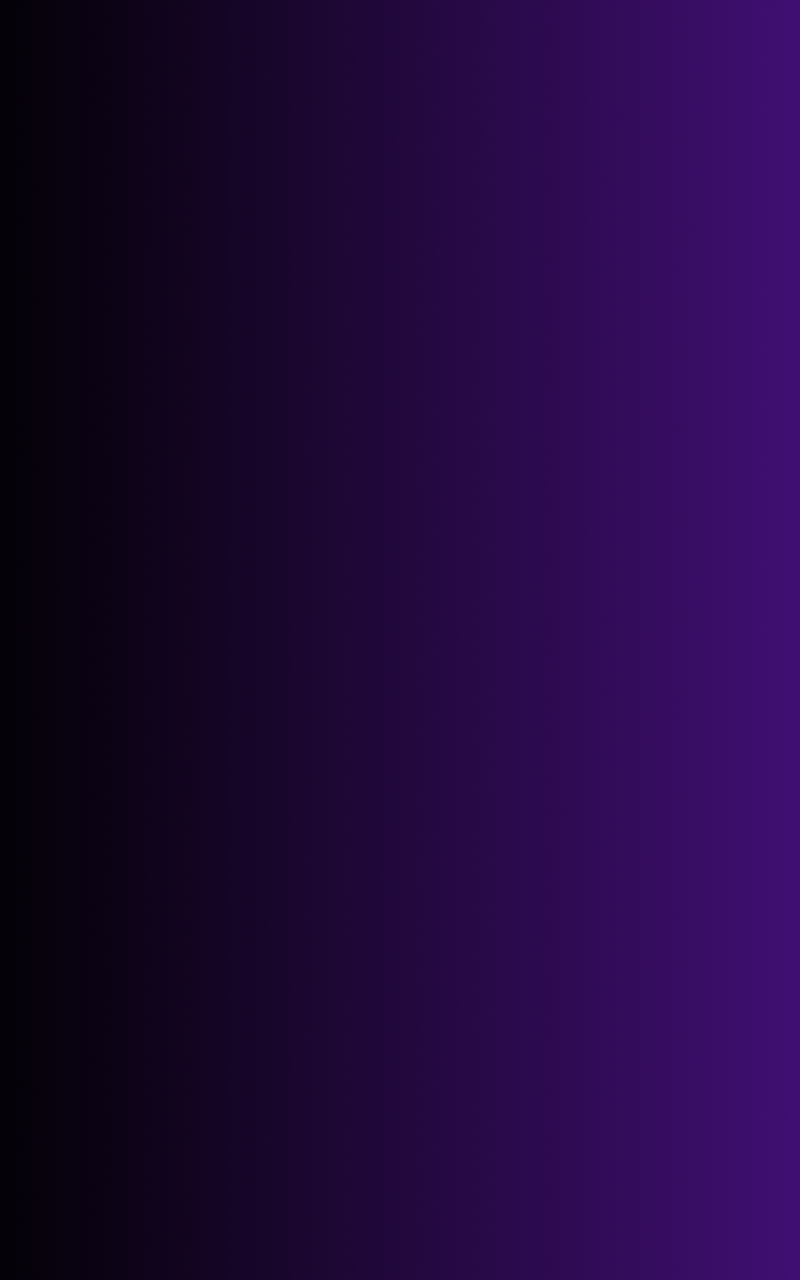
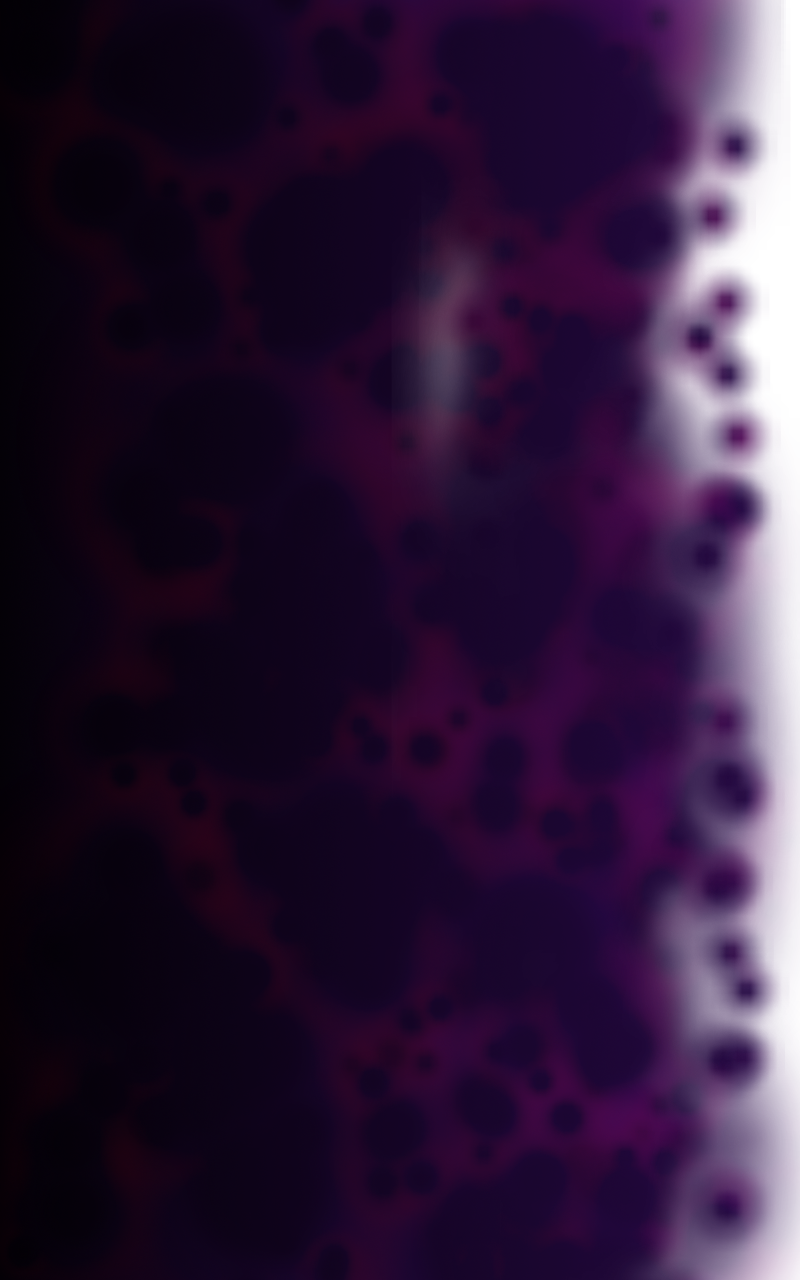
added chaser and an overlay

diff --git a/main.cpp b/main.cpp
@@ -17,6 +17,7 @@
 #include <SFML/Audio.hpp>
 #include <SFML/Graphics.hpp>
 #include <string>
+#include <algorithm>
 
 // Here is a small helper for you ! Have a look.
 #include "ResourcePath.hpp"
@@ -26,6 +27,7 @@
 #include "Tile.h"
 #include "LightOrb.h"
 #include "level.h"
+#include "Chaser.h"
 
 using namespace std;
 
@@ -49,8 +51,14 @@ int main(int, char const**)
     //Declare Player
     sf:: Texture playerTexture;
     playerTexture.loadFromFile(resourcePath() + "player.png");
-    Player player(playerTexture, sf::Vector2f(WIDTH/2, HEIGHT/2), sf::Vector2f(5, 0), 1, true, true);
-    //Chaser chaser();
+    sf::Sprite playerSprite(playerTexture);
+    Player player(playerSprite, sf::Vector2f(WIDTH/2, HEIGHT/2), sf::Vector2f(5, 0), true, true);
+    
+    
+    sf:: Texture chaserTexture;
+    chaserTexture.loadFromFile(resourcePath() + "Chaser.png");
+    sf::Sprite chaserSprite(chaserTexture);
+    Chaser chaser(chaserSprite, sf::Vector2f(-WIDTH, 0), sf::Vector2f(5.4, 0));
 
     // Set the Icon
     sf::Image icon;
@@ -65,8 +73,18 @@ int main(int, char const**)
     if (!texture.loadFromFile(resourcePath() + "background.png")) {
         return EXIT_FAILURE;
     }
+    texture.setSmooth(true);
     sf::Sprite background(texture);
     background.scale(10, 10);
+    
+    //overlay
+    sf::Texture overlayTexture;
+    if (!overlayTexture.loadFromFile(resourcePath() + "overlay.png")) {
+        return EXIT_FAILURE;
+    }
+    overlayTexture.setSmooth(true);
+    sf::Sprite overlay(overlayTexture);
+    overlay.scale(10, 10);
     
     // Load a sprite to display
     sf::Texture lightOrbTexture;
@@ -82,9 +100,6 @@ int main(int, char const**)
     }
     sf::Sprite blockSprite(blockTexture);
 
-    //move the player sprite to the centre of the screen ... ish
-    player.sprite.move(player.position);
-
     // Create a graphical text to display
     sf::Font font;
     if (!font.loadFromFile(resourcePath() + "sansation.ttf")) {
@@ -96,16 +111,17 @@ int main(int, char const**)
     
     vector<GameObject> gameObjects;
     
+    
     Level level(resourcePath() + "levelTest.png", lightOrbSprite, blockSprite);
-    cout << level.tilemap.size();
+    
     
     for (int i = 0; i < level.tilemap.size(); ++i)
     {
         gameObjects.push_back(level.tilemap[i]);
     }
-    cout << gameObjects.size();
     
-
+    std::sort(gameObjects.begin(), gameObjects.end(), GameObject::compareDepth);
+    
     // Load a music to play
     sf::Music music;
     if (!music.openFromFile(resourcePath() + "nice_music.ogg")) {
@@ -118,11 +134,7 @@ int main(int, char const**)
 
 
     //scrolling view
-    sf::View view(sf::FloatRect(0, 0, WIDTH, HEIGHT));
-
-    float scrollX = player.velocity.x + 0.5;
-    
-    sf::Sprite overlay;
+    sf::View view(sf::FloatRect(0, 0, WIDTH, HEIGHT));    float scrollX = player.velocity.x + 0.2;
 
     // Start the game loop
     while (window.isOpen())
@@ -151,25 +163,28 @@ int main(int, char const**)
             view.move(scrollX, 0);
             window.setView(view);
         }
-        
         // Draw the background
         window.draw(background);
         
         for (int i = 0; i < gameObjects.size(); ++i)
         {
-            //cout << gameObjects[i].sprite.getGlobalBounds().top << "\n";
             window.draw(gameObjects[i].sprite);
         }
 
-        // Draw the player
+        // draw overlay
+        
+        window.draw(overlay);
+        
+        // Draw the player and the chaser
         if(background.getGlobalBounds().width - (WIDTH / 2) > view.getCenter().x)
         {
             player.sprite.move(player.velocity.x, 0);
-            window.draw(player.sprite);
+            chaser.sprite.move(chaser.velocity.x, 0);
         }
         
-        // Draw the string
-        window.draw(text);
+        window.draw(player.sprite);
+        
+        window.draw(chaser.sprite);
 
         // Update the window
         window.display();

diff --git a/level.cpp b/level.cpp
@@ -25,13 +25,13 @@ Level::Level(std::string fname, sf::Sprite lightOrbSprite, sf::Sprite blockSprit
             if (pixel == sf::Color(0, 0, 0))
             {
                 //it's a platform block
-                this->tilemap.push_back(Block(blockSprite, sf::Vector2f(currentX, currentY), sf::Vector2f(0, 0), 1, true));
+                this->tilemap.push_back(Block(blockSprite, sf::Vector2f(currentX, currentY), sf::Vector2f(0, 0), true));
             }
             
             else if (pixel == sf::Color(255, 255, 255))
             {
                 //it's a light orb
-                this->tilemap.push_back(LightOrb(lightOrbSprite, sf::Vector2f(currentX, currentY), sf::Vector2f(0, 0), 1, true));
+                this->tilemap.push_back(LightOrb(lightOrbSprite, sf::Vector2f(currentX, currentY), sf::Vector2f(0, 0), true));
             }
         
             currentY += tileHeight;

diff --git a/gameObject.cpp b/gameObject.cpp
@@ -5,9 +5,10 @@ GameObject::GameObject()
     this->alive = false;
 }
 
-GameObject::GameObject(sf::Texture texture, sf::Vector2f position,  sf::Vector2f velocity, int depth, bool alive, bool collidable)
+GameObject::GameObject(std::string name, sf::Sprite sprite, sf::Vector2f position,  sf::Vector2f velocity, int depth, bool alive, bool collidable)
 {
-    this->texture = texture;
+    this->name = name;
+    this->sprite = sprite;
     this->position = position;
     this->velocity = velocity;
     this->depth = depth;
@@ -20,4 +21,9 @@ GameObject::GameObject(sf::Texture texture, sf::Vector2f position,  sf::Vector2f
 GameObject::~GameObject()
 {
     //dtor
+}
+
+bool GameObject::compareDepth(const GameObject& a, const GameObject& b)
+{
+    return a.depth < b.depth;
 }

diff --git a/gameObject.h b/gameObject.h
@@ -1,6 +1,6 @@
 #include <SFML/Audio.hpp>
 #include <SFML/Graphics.hpp>
-
+#include <string>
 #ifndef GAMEOBJECT_H
 #define GAMEOBJECT_H
 
@@ -8,10 +8,13 @@
 class GameObject
 {
     public:
-        GameObject(sf::Texture texture, sf::Vector2f position, sf::Vector2f velocity, int depth, bool alive, bool collidable);
+        GameObject(std::string name, sf::Sprite sprite, sf::Vector2f position, sf::Vector2f velocity, int depth, bool alive, bool collidable);
         GameObject();
         virtual ~GameObject();
     
+        static bool compareDepth(const GameObject& a, const GameObject& b);
+    
+        std::string name;
         sf::Sprite sprite;
         sf::Texture texture;
         sf::Vector2f position, velocity;

diff --git a/Player.cpp b/Player.cpp
@@ -5,14 +5,15 @@ Player::Player()
     this->luminosity = 0;
 }
 
-Player::Player(sf::Texture texture, sf::Vector2f position, sf::Vector2f velocity, int depth, bool alive, bool collidable)
+Player::Player(sf::Sprite sprite, sf::Vector2f position, sf::Vector2f velocity, bool alive, bool collidable)
 {
+    this->name = "Player";
     this->luminosity = 50;
-    this->texture = texture;
-    this->sprite.setTexture(this->texture);
+    this->sprite = sprite;
+    this->sprite.move(position);
     this->position = position;
     this->velocity = velocity;
-    this->depth = depth;
+    this->depth = 100;
     this->alive = alive;
     this->collidable = collidable;
 }

diff --git a/LightOrb.cpp b/LightOrb.cpp
@@ -8,13 +8,13 @@ LightOrb::LightOrb()
     //ctor
 }
 
-LightOrb::LightOrb(sf::Sprite sprite, sf::Vector2f position,  sf::Vector2f velocity, int depth, bool alive)
+LightOrb::LightOrb(sf::Sprite sprite, sf::Vector2f position,  sf::Vector2f velocity, bool alive)
 {
     this->sprite = sprite;
     this->position = position;
     this->sprite.move(position);
     this->velocity = velocity;
-    this->depth = depth;
+    this->depth = 99;
     this->alive = alive;
     this->collidable = true;
     this->luminosity = 10;

diff --git a/Block.cpp b/Block.cpp
@@ -14,13 +14,14 @@ Block::Block()
     //ctor
 }
 
-Block::Block(sf::Sprite sprite, sf::Vector2f position,  sf::Vector2f velocity, int depth, bool alive)
+Block::Block(sf::Sprite sprite, sf::Vector2f position,  sf::Vector2f velocity, bool alive)
 {
+    this->name = "Block";
     this->sprite = sprite;
     this->sprite.move(position);
     this->position = position;
     this->velocity = velocity;
-    this->depth = depth;
+    this->depth = 50;
     this->alive = alive;
     this->collidable = true;
 }

diff --git a/Player.h b/Player.h
@@ -8,10 +8,11 @@ class Player : public GameObject
 {
     public:
         Player();
-        Player(sf::Texture texture, sf::Vector2f position, sf::Vector2f velocity, int depth, bool alive, bool collidable);
+        Player(sf::Sprite sprite, sf::Vector2f position, sf::Vector2f velocity, bool alive, bool collidable);
         ~Player();
     
         int luminosity;
+        std::string name;
         sf::Sprite sprite;
         sf::Texture texture;
         sf::Vector2f position, velocity;

diff --git a/Block.h b/Block.h
@@ -9,13 +9,13 @@
 #ifndef __shine_game__Block__
 #define __shine_game__Block__
 
-#include "GameObject.h"
+//#include "GameObject.h"
 #include "Tile.h"
 
 class Block : public Tile
 {
 public:
-    Block(sf::Sprite sprite, sf::Vector2f position,  sf::Vector2f velocity, int depth, bool alive);
+    Block(sf::Sprite sprite, sf::Vector2f position,  sf::Vector2f velocity, bool alive);
     Block();
     virtual ~Block();
     

diff --git a/Chaser.cpp b/Chaser.cpp
@@ -5,6 +5,18 @@ Chaser::Chaser()
     //ctor
 }
 
+Chaser::Chaser(sf::Sprite sprite, sf::Vector2f position, sf::Vector2f velocity)
+{
+    this->name = "Chaser";
+    this->sprite = sprite;
+    this->sprite.move(position);
+    this->position = position;
+    this->velocity = velocity;
+    this->depth = 100;
+    this->alive = true;
+    this->collidable = true;
+}
+
 Chaser::~Chaser()
 {
     //dtor

diff --git a/LightOrb.h b/LightOrb.h
@@ -7,7 +7,7 @@
 class LightOrb : public Tile
 {
     public:
-        LightOrb(sf::Sprite sprite, sf::Vector2f position,  sf::Vector2f velocity, int depth, bool alive);
+        LightOrb(sf::Sprite sprite, sf::Vector2f position,  sf::Vector2f velocity, bool alive);
         LightOrb();
         LightOrb(const LightOrb& other);
         virtual ~LightOrb();

diff --git a/Chaser.h b/Chaser.h
@@ -7,7 +7,7 @@
 class Chaser : public GameObject
 {
     public:
-        Chaser(sf::Texture texture, sf::Vector2f position, sf::Vector2f velocity, int depth, bool alive, bool collidable);
+        Chaser(sf::Sprite sprite, sf::Vector2f position, sf::Vector2f velocity);
         Chaser();
         virtual ~Chaser();
     protected:
